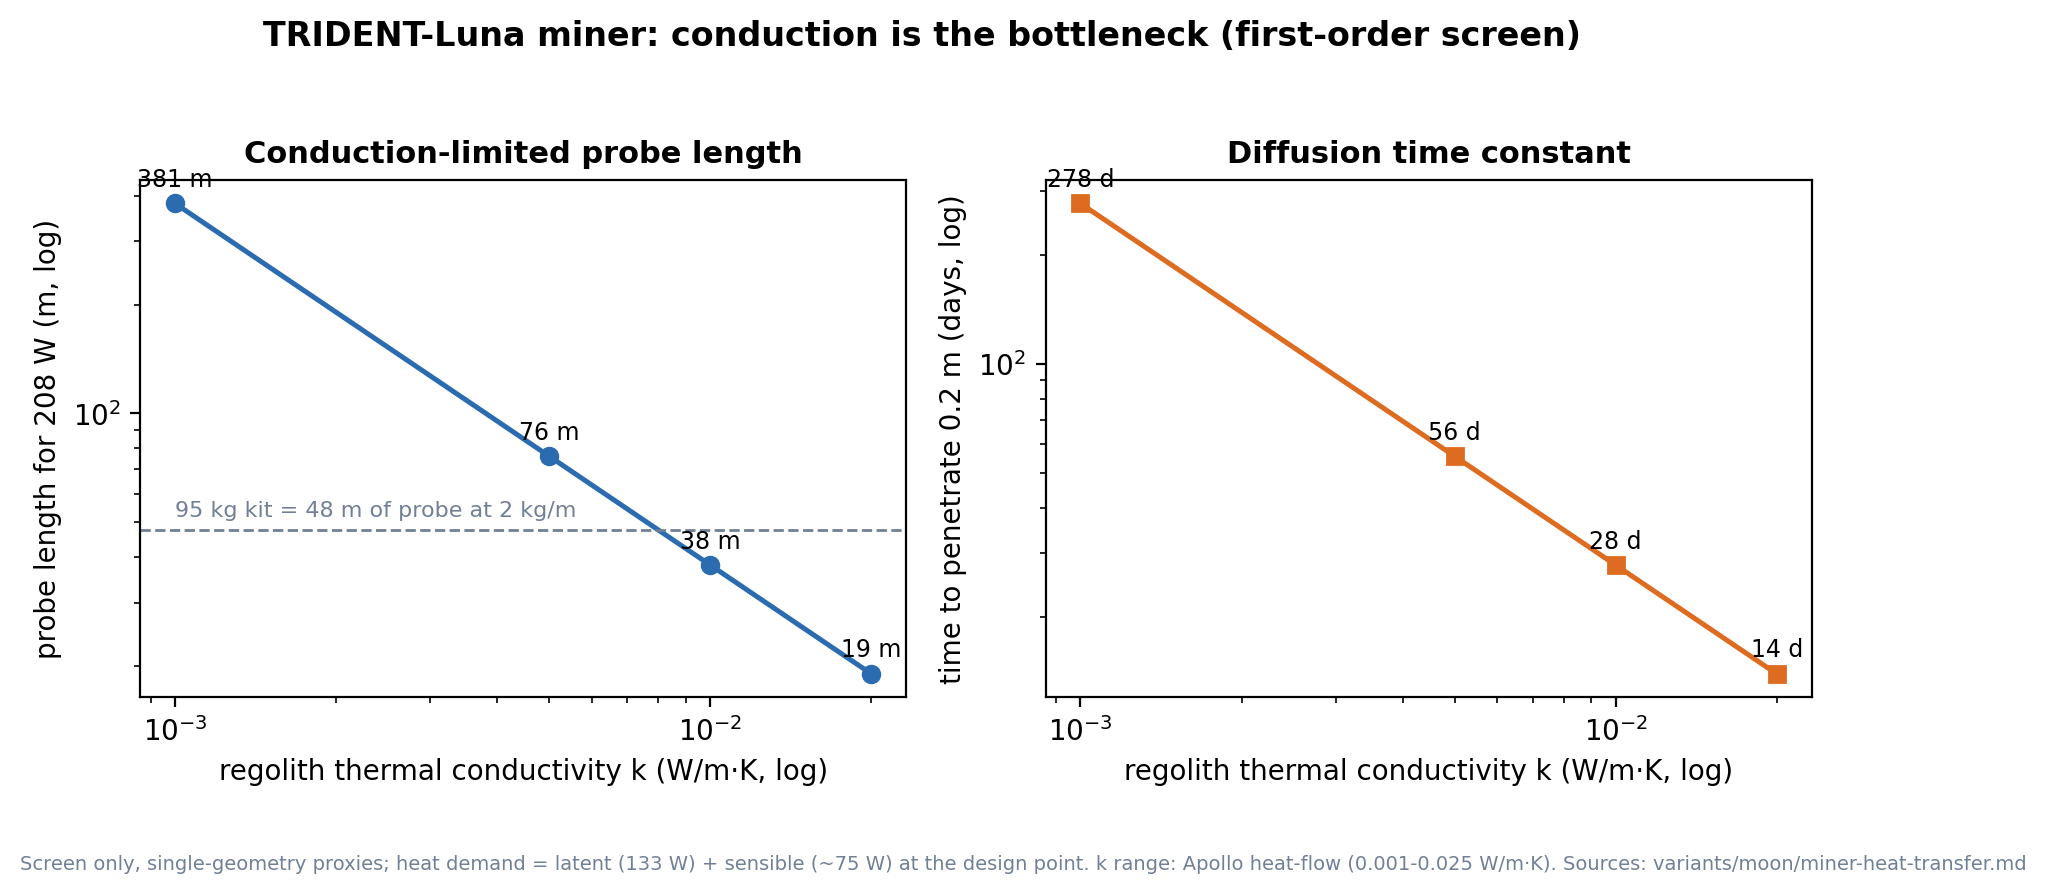
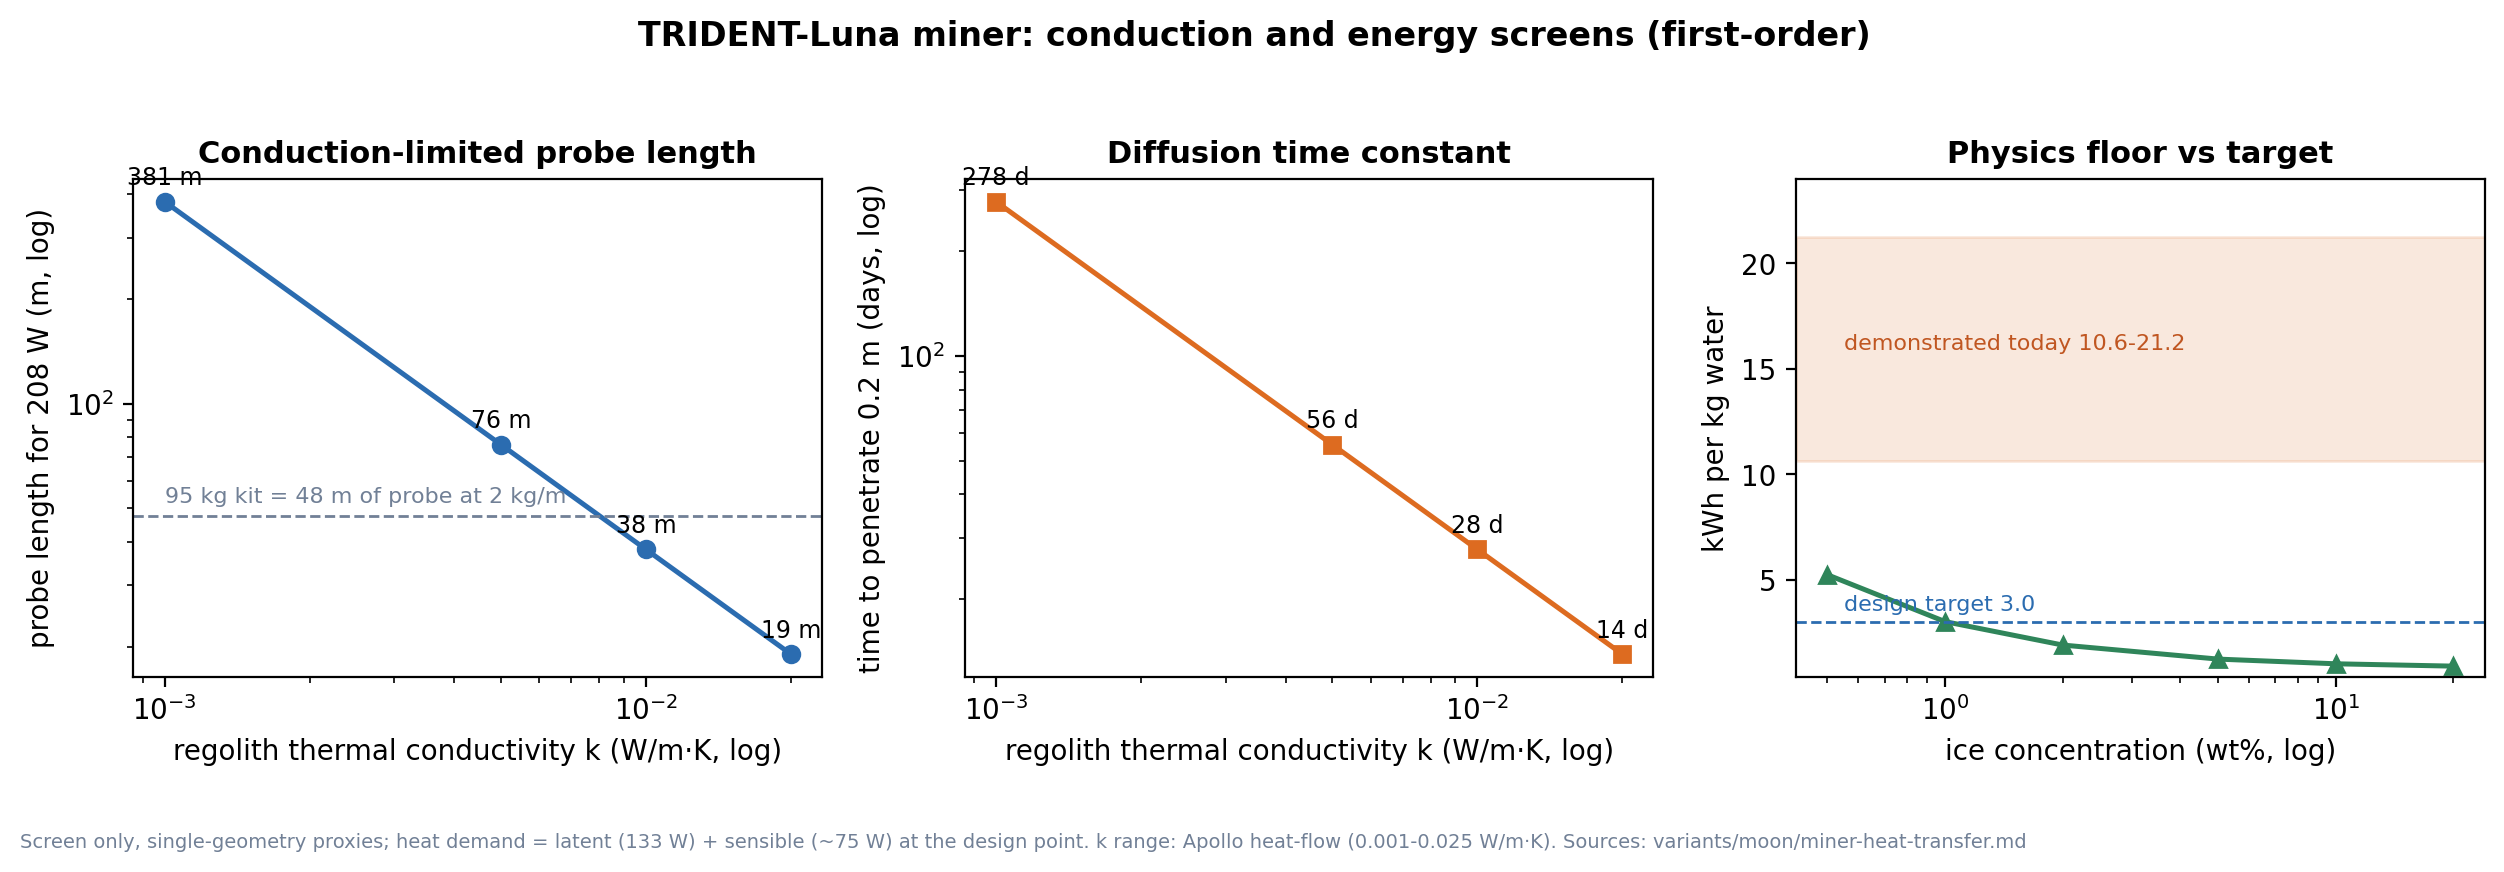
Add the physics-floor curve for extraction energy (miner screen v2)
- tools/miner_check.py: sublimation + inert-fraction sensible heat per kg
  water across ice concentrations (1.0-3.0 kWh/kg for 10-1 wt%); third
  figure panel; table output
- miner-heat-transfer.md: floor section — the 3.0 kWh/kg design target equals
  the floor at ~1 wt% and sits 2.4x above it at the nominal 5 wt%; measured
  lab processes are 9-17x the floor, i.e. the gap is engineering, not physics
- ASSUMPTIONS concentration bullet updated with the floor values

diff --git a/tools/miner_check.py b/tools/miner_check.py
@@ -38,6 +38,12 @@ K_CASES = [0.001, 0.005, 0.01, 0.02]   # W/mK; Apollo heat-flow range (0.001-0.0
 DEMONSTRATED_G_PER_MIN = (0.84, 1.57)  # microwave heating lab rates (Research, 2025)
 
 
+def physics_floor_kwh_per_kg(frac: float) -> float:
+    """Thermodynamic floor per kg of water: sublimation plus sensible heat
+    of the inert regolith fraction (1/frac kg of regolith per kg water)."""
+    return (H_SUB_J_PER_KG + (1.0 / frac) * CP_AVG_J_PER_KG_K * DT_REGOLITH_K) / 3.6e6
+
+
 def screen() -> dict:
     moon = build("variants/moon")
     water_kg_day = moon["flows"]["water_kg_per_day"]
@@ -75,6 +81,7 @@ def screen() -> dict:
         "kwh_per_kg_at_1kw": (1000.0 / (1.57e-3 / 60.0)) / 3.6e6,
         "kwh_per_kg_at_2kw": (2000.0 / (1.57e-3 / 60.0)) / 3.6e6,
         "design_kwh_per_kg": 3.0,
+        "floor_kwh_per_kg": {f: physics_floor_kwh_per_kg(f) for f in (0.01, 0.02, 0.05, 0.10)},
     }
 
 
@@ -93,6 +100,10 @@ def print_table(s: dict) -> None:
     print(f"demonstrated specific energy at 1-2 kW input: "
           f"{s['kwh_per_kg_at_1kw']:.1f}-{s['kwh_per_kg_at_2kw']:.1f} kWh/kg water "
           f"(design target: {s['design_kwh_per_kg']:.0f})")
+    print("\nphysics floor (sublimation + sensible heat of the inert fraction):")
+    for frac, v in s["floor_kwh_per_kg"].items():
+        marker = "  <- equals design target" if abs(v - s["design_kwh_per_kg"]) < 0.1 else ""
+        print(f"  {frac * 100:>4.0f} wt% ice: {v:.2f} kWh/kg water{marker}")
 
 
 def figure(s: dict) -> None:
@@ -105,7 +116,7 @@ def figure(s: dict) -> None:
     lengths = [r["probe_length_m"] for r in s["rows"]]
     taus = [r["penetration_time_days"] for r in s["rows"]]
 
-    fig, (ax1, ax2) = plt.subplots(1, 2, figsize=(9.2, 3.9))
+    fig, (ax1, ax2, ax3) = plt.subplots(1, 3, figsize=(12.6, 3.8))
 
     ax1.loglog(ks, lengths, "o-", color="#2b6cb0", lw=1.8)
     kit_line = 95.0 / PROBE_KG_PER_M
@@ -125,7 +136,23 @@ def figure(s: dict) -> None:
     ax2.set_ylabel("time to penetrate 0.2 m (days, log)")
     ax2.set_title("Diffusion time constant", fontsize=11, weight="bold")
 
-    fig.suptitle("TRIDENT-Luna miner: conduction is the bottleneck (first-order screen)", fontsize=12, weight="bold", y=1.03)
+    fracs = [0.005, 0.01, 0.02, 0.05, 0.10, 0.20]
+    floors = [physics_floor_kwh_per_kg(f) for f in fracs]
+    ax3.plot([f * 100 for f in fracs], floors, "^-", color="#2f855a", lw=1.8)
+    ax3.axhline(s["design_kwh_per_kg"], color="#2b6cb0", ls="--", lw=1)
+    ax3.axhspan(s["kwh_per_kg_at_1kw"], s["kwh_per_kg_at_2kw"], color="#dd6b20", alpha=0.15)
+    ax3.annotate("design target 3.0", xy=(0.55, s["design_kwh_per_kg"]), xytext=(0, 4),
+                 textcoords="offset points", fontsize=8, color="#2b6cb0")
+    ax3.annotate("demonstrated today 10.6-21.2",
+                 xy=(0.55, (s["kwh_per_kg_at_1kw"] + s["kwh_per_kg_at_2kw"]) / 2),
+                 fontsize=8, color="#c05621")
+    ax3.set_xscale("log")
+    ax3.set_xlabel("ice concentration (wt%, log)")
+    ax3.set_ylabel("kWh per kg water")
+    ax3.set_title("Physics floor vs target", fontsize=11, weight="bold")
+    ax3.set_ylim(0.4, 24)
+
+    fig.suptitle("TRIDENT-Luna miner: conduction and energy screens (first-order)", fontsize=12, weight="bold", y=1.03)
     fig.text(0.01, -0.06,
              "Screen only, single-geometry proxies; heat demand = latent (133 W) + sensible (~75 W) at the design point. "
              "k range: Apollo heat-flow (0.001-0.025 W/m·K). Sources: variants/moon/miner-heat-transfer.md",

diff --git a/variants/moon/miner-heat-transfer.md b/variants/moon/miner-heat-transfer.md
@@ -49,7 +49,34 @@ Two conclusions:
 
 ![Miner heat-transfer screen](figures/luna_miner_heat_transfer.png)
 *Figure — Conduction-limited probe length (left) and diffusion time constant
-(right) vs regolith thermal conductivity, at the design-point heat rate.*
+(middle) vs regolith thermal conductivity, and the physics floor vs ice
+concentration (right).*
+
+## Physics floor vs target vs demonstrated
+
+The energy floor for any extraction process is sublimation plus heating the
+inert fraction of the regolith. Per kg of water (0.4 kJ/kg·K average over the
+~200 K swing):
+
+| Ice concentration | Inert regolith per kg water | Physics floor | vs design target |
+|---|---|---|---|
+| 10 wt% | 10 kg | 1.0 kWh/kg | 0.34× |
+| 5 wt% (nominal) | 20 kg | 1.2 kWh/kg | 0.41× |
+| 2 wt% | 50 kg | 1.9 kWh/kg | 0.63× |
+| 1 wt% | 100 kg | 3.0 kWh/kg | 1.00× |
+
+Three readings:
+
+- The 3.0 kWh/kg design target equals the thermodynamic floor at **~1 wt%**
+  concentration and sits ~2.4× above the floor at the nominal 5 wt%. The
+  target is not thermodynamically forbidden — it is an engineering claim
+  about heat delivery and losses.
+- Measured lab processes (10.6–21.2 kWh/kg) are **9–17× the floor** at 5 wt%.
+  The gap to the design target is engineering, not physics — which is exactly
+  what the bench-test gate below is built to probe.
+- Because the floor scales as 1/concentration, a 2 wt% site carries ~0.7
+  kWh/kg of unavoidable extra energy versus 5 wt%; the variant README's
+  concentration table is a throughput statement, not an energy-equivalent one.
 
 ## Where the process has to go (options, with anchors)
 
@@ -79,7 +106,7 @@ One bench test, specified so pass/fail is unambiguous:
 1. Sealable retort or well; cryogenic start (≤100 K); lunar regolith simulant
    at 5 wt% ice; dust-bearing surfaces.
 2. Metrics: **specific energy ≤ 10 kWh/kg water** (design target 3;
-   demonstrated today 10.6–21.2), **collection rate ≥ 2.8 g/min**, capture
+   demonstrated today 10.6–21.2; physics floor 1.2 at 5 wt%), **collection rate ≥ 2.8 g/min**, capture
    efficiency ≥ 90% (proposed), ≥ 100 h cumulative operation.
 3. Negative-result handling: if the bench lands above 10 kWh/kg, the mining
    line rises — the model's sensitivity band already carries the consequence

diff --git a/ASSUMPTIONS.md b/ASSUMPTIONS.md
@@ -40,11 +40,12 @@ difference is ~3% and is not corrected for.
      heated surface, with diffusion time constants of weeks (14–278 days for
      0.2 m). The 95 kg kit does not represent that hardware; a bench-test gate
      (≤10 kWh/kg at ≥2.8 g/min) is specified to retire the risk.
-   - **Concentration couples to energy in reality.** The model applies
-     specific energy per kg of water independently of ice concentration;
-     physically, heating the inert fraction adds sensible-heat cost, so a
-     2 wt% site costs more per kg water than the model shows. Treat the
-     2/5/10 wt% table as throughput scaling only.
+   - **Concentration couples to energy in reality.** The first-order floor
+     (sublimation + sensible heat of the inert fraction) is 1.0, 1.2, 1.9 and
+     3.0 kWh/kg water at 10, 5, 2 and 1 wt% — the design target equals the
+     floor only at ~1 wt%. The model applies a flat 3.0; treat its 2/5/10 wt%
+     table as throughput scaling, and see `miner-heat-transfer.md` for the
+     floor curve.
    - **Energy boundaries.** The feedstock kit's 300 W continuous (7.2 kWh/day)
      is charged separately from the specific-energy term; published kWh/kg
      figures may or may not include such auxiliaries — align boundaries when
